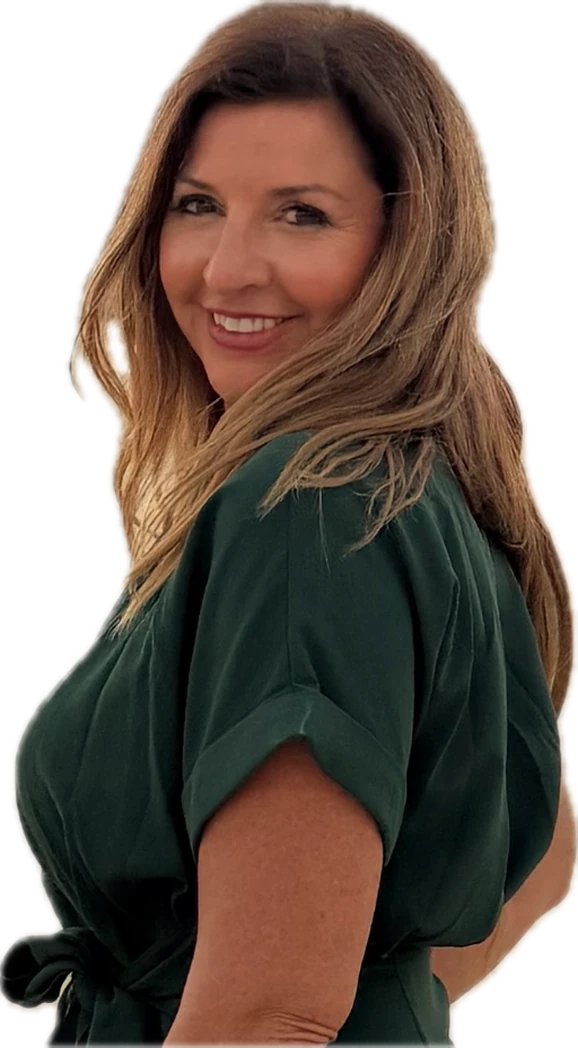
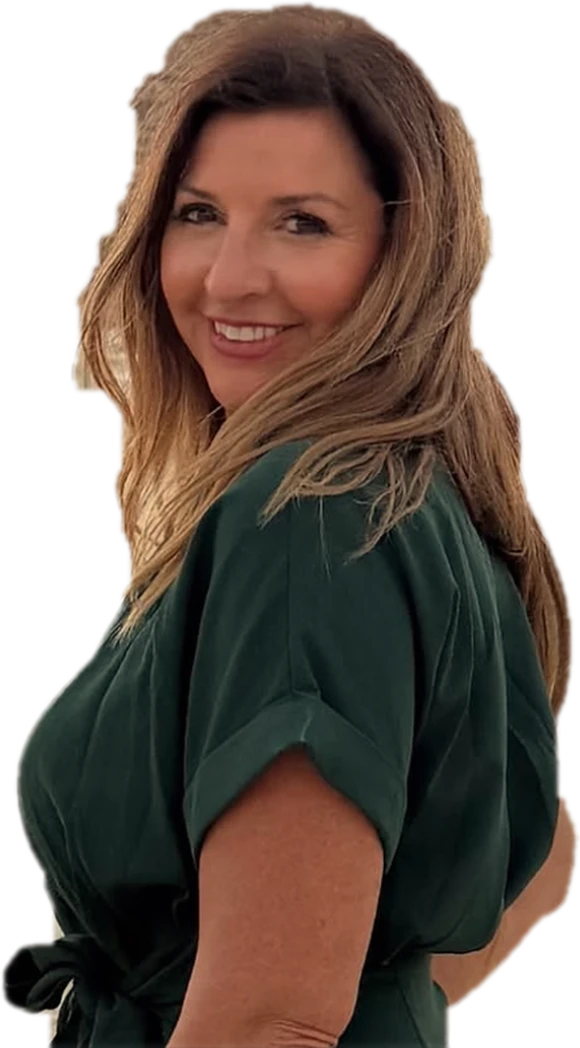
Preview: back to the cutout from Sarah's original Giza photo (her natural head shape), at 1.3x
Claude-Session: https://claude.ai/code/session_0143Lbhr4xqUWpHZcBapTSp9

diff --git a/preview/index.html b/preview/index.html
@@ -9,8 +9,8 @@
 <link rel="preconnect" href="https://fonts.googleapis.com">
 <link rel="preconnect" href="https://fonts.gstatic.com" crossorigin>
 <link href="https://fonts.googleapis.com/css2?family=Cinzel:wght@400..700&family=Cormorant+Garamond:ital,wght@0,400;0,500;1,400;1,500&display=swap" rel="stylesheet">
-<link rel="preload" as="image" href="media/hall-hero-mobile.jpg?v=15" media="(max-aspect-ratio: 9/10)">
-<link rel="preload" as="image" href="media/sarah-cutout-mobile.webp?v=15" media="(max-aspect-ratio: 9/10)">
+<link rel="preload" as="image" href="media/hall-hero-mobile.jpg?v=16" media="(max-aspect-ratio: 9/10)">
+<link rel="preload" as="image" href="media/sarah-cutout-mobile.webp?v=16" media="(max-aspect-ratio: 9/10)">
 <!--
   The Hall of Records: private preview for Sarah Breskman Cosme. Built by LightStorm; not public.
 
@@ -327,13 +327,13 @@
 //  - every full-bleed layer shares one framing; the page never scrolls; media carry a cache-buster
 (() => {
   "use strict";
-  const MV = "?v=15";   // bump whenever a video or still is replaced, or phones keep the old file
+  const MV = "?v=16";   // bump whenever a video or still is replaced, or phones keep the old file
   const SETS = {
     mobile:  { w: 1080, h: 1920, still: "media/hall-hero-mobile.jpg", loop: "media/hall-hero-mobile.mp4",
-               her: "media/sarah-cutout-mobile.webp", cut: { x: 374, y: 872, w: 578, h: 1048 },
+               her: "media/sarah-cutout-mobile.webp", cut: { x: 372, y: 872, w: 580, h: 1048 },
                base: [474, 1430], apex: [467, 744], fx: 0.52, fy: 0.5, video: "media/hall-transition-mobile.mp4" },
     desktop: { w: 1920, h: 1080, still: "media/hall-hero-desktop.jpg", loop: "",
-               her: "media/sarah-cutout-desktop.webp", cut: { x: 873, y: 399, w: 375, h: 681 },
+               her: "media/sarah-cutout-desktop.webp", cut: { x: 868, y: 399, w: 380, h: 681 },
                base: [720, 850], fx: 0.5, fy: 0.55, video: "" },   // desktop: staged until there's a 16:9 transition
   };
   const HALL = { w: 1080, h: 1920, still: "media/hall-landing-mobile.jpg", loop: "media/hall-landing-mobile.mp4", fx: 0.5, fy: 0.62 };
